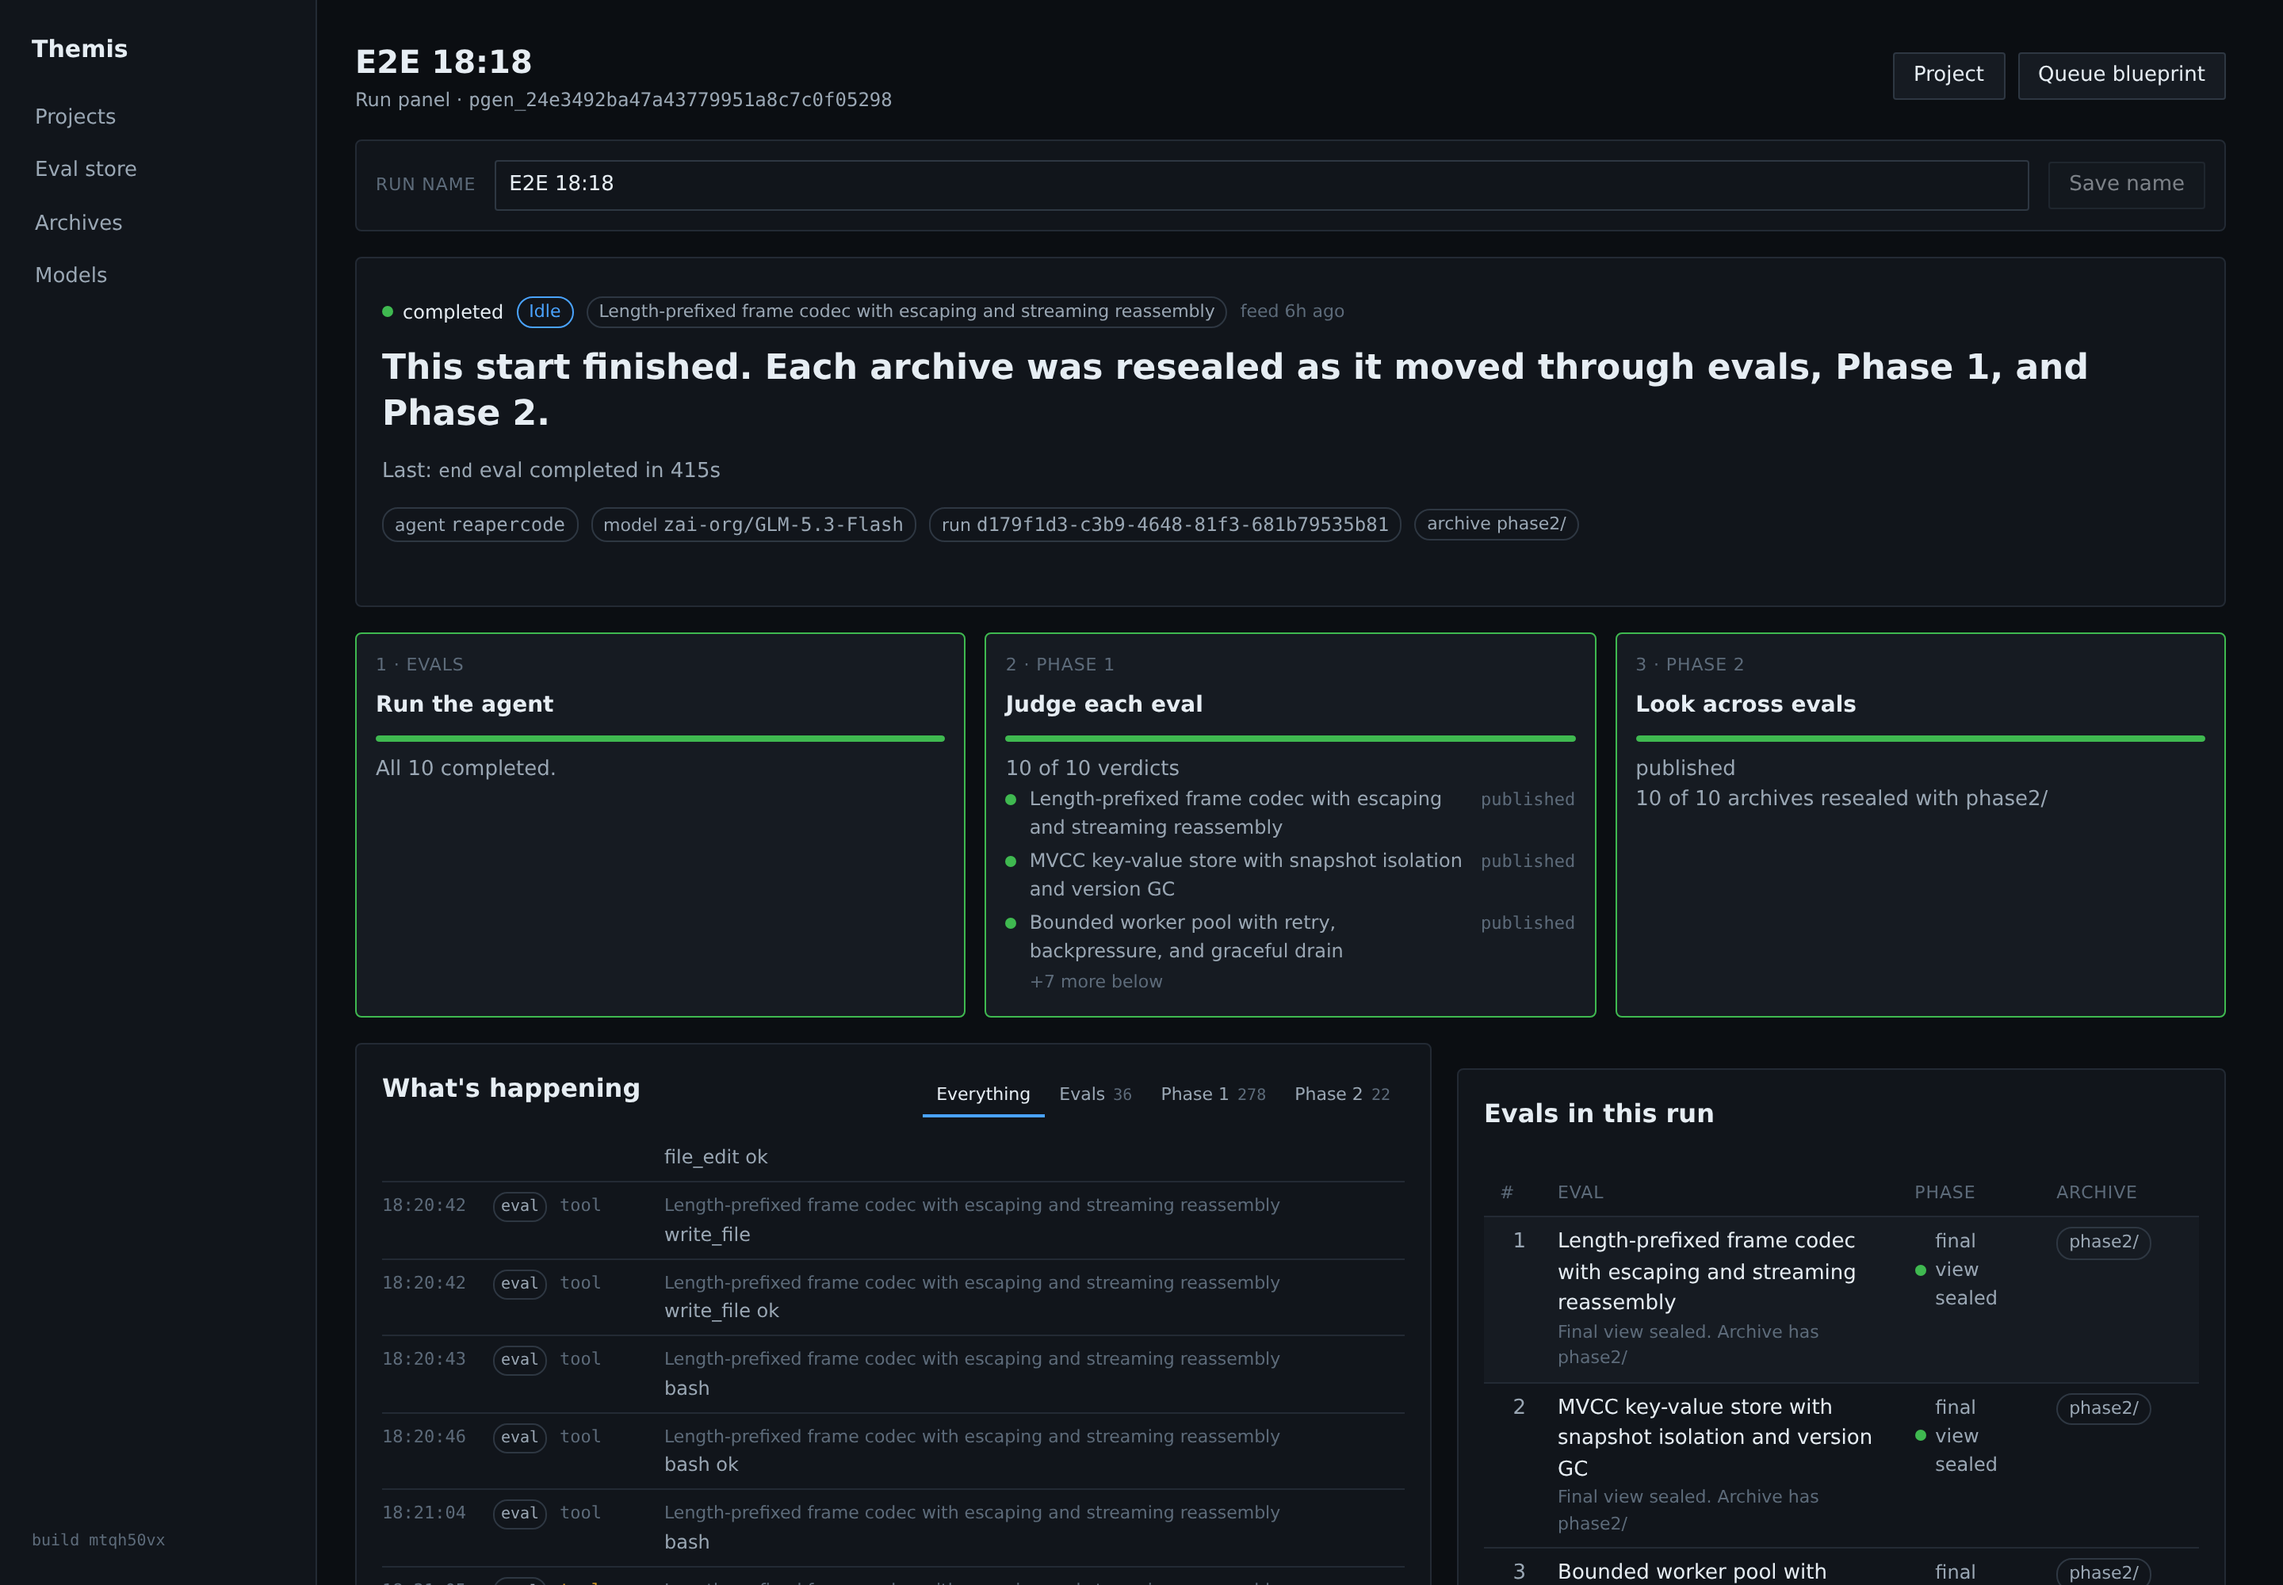
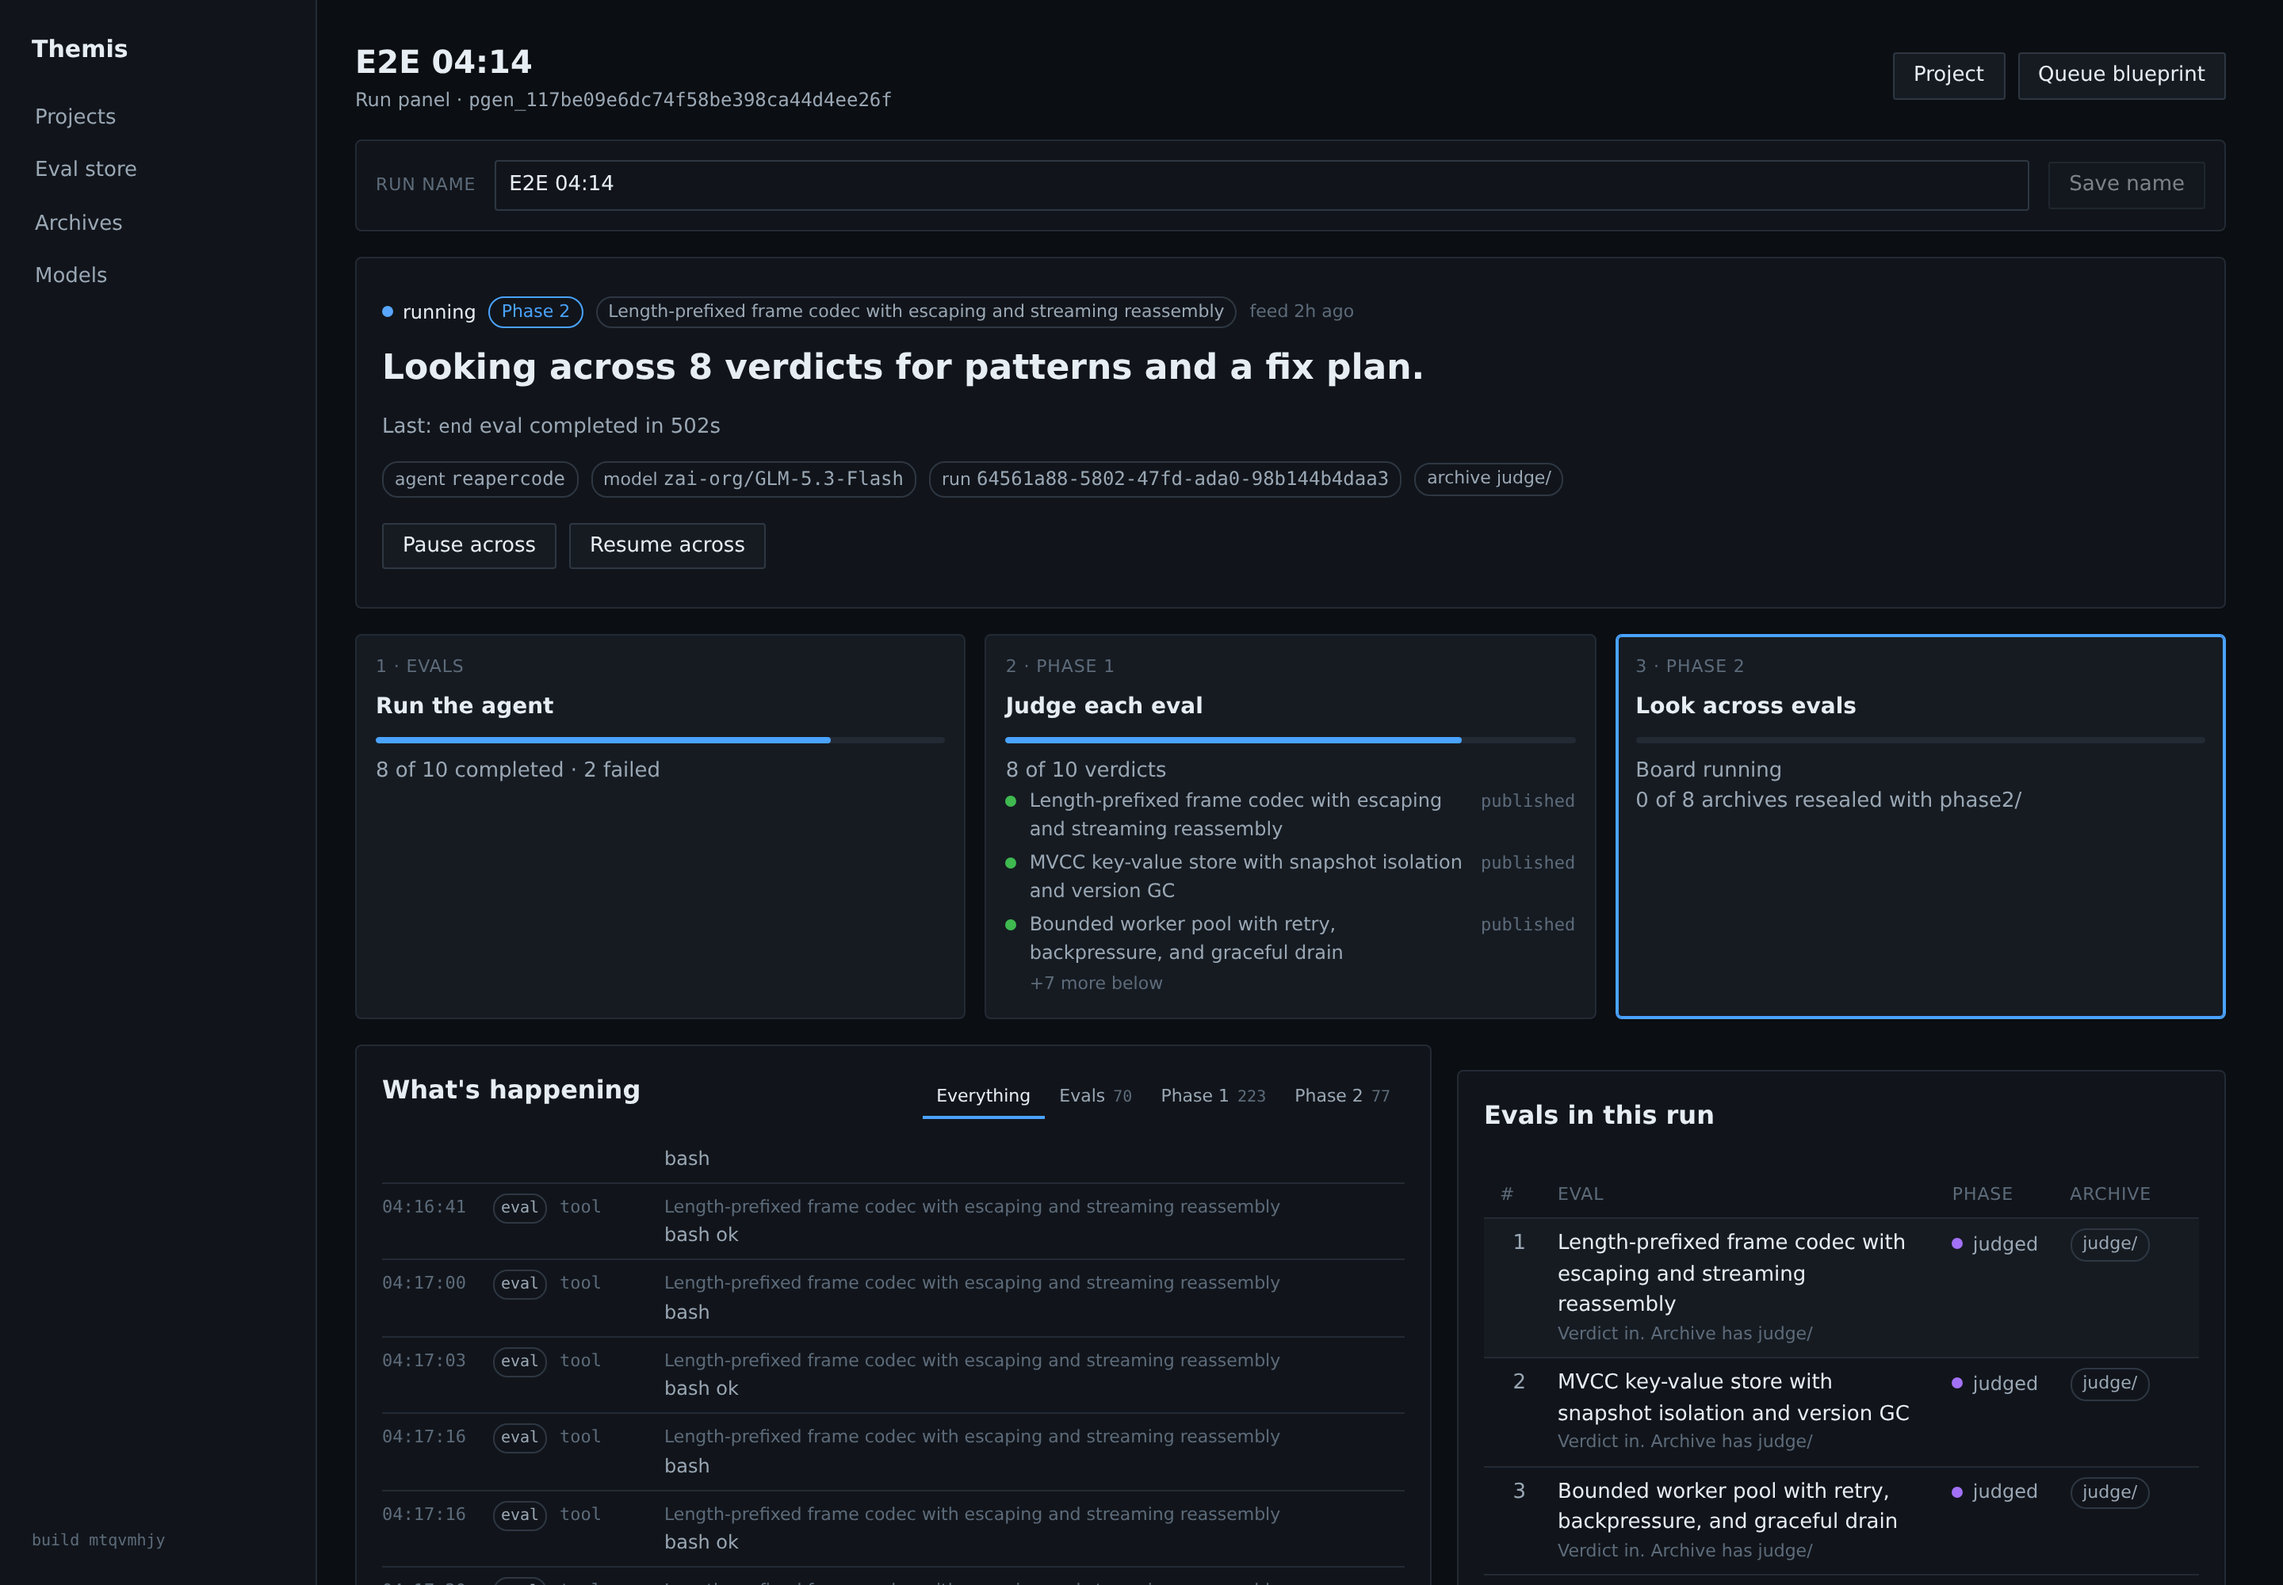
Stop the run panel claiming work while the across-evals board is down
The docs capture caught the header reading "running / Looking across 8
verdicts for patterns and a fix plan" directly above a card saying the
board process was gone. Both were reading the same generation state and
disagreeing about what it meant.

`stalled` (generation says phase2_running but no board process) now counts
as stopped alongside `paused` and `waiting_retry`, so the badge says
"stopped" rather than "running" and the headline says the session is saved
and the verdicts are still published. Adds `stopped` to the warn-tone
states so the new badge is not muted.

Screenshots recaptured against the fixed bundle.

diff --git a/web/src/pages/EvalLive.tsx b/web/src/pages/EvalLive.tsx
@@ -276,6 +276,11 @@ function nowCopy(opts: {
   if (opts.genState === 'waiting_retry') {
     return 'The across-evals pass stopped after its retries ran out, usually a provider error. Every verdict is still published. Resume to run it again.'
   }
+  // The board process being gone is not the same as the pass being under way.
+  // Claiming it is looking across verdicts contradicts the card right below it.
+  if (p?.phase2.stalled) {
+    return 'The across-evals board stopped mid-pass. Its session is saved and every verdict is still published. Resume to pick up where it stopped.'
+  }
   if (opts.acrossRunning || opts.genState === 'phase2_running') return `Looking across ${p?.phase1.published ?? opts.total ?? 0} verdicts for patterns and a fix plan.`
   if (opts.genState === 'finalizing') return 'Sealing the across-evals view onto each archive.'
   if (p?.stage === 'phase1') {
@@ -411,8 +416,11 @@ export default function EvalLive() {
   // A parked board keeps its campaign in `analyzing` so resume continues the same
   // session, so `analyzing` alone does not mean the board is working. The
   // generation sitting in `paused` or `waiting_retry` is what says it stopped.
+  // `stalled` means the generation still says phase2_running but the board
+  // process is gone, so that state is not evidence of work either.
   const acrossGenState = gen.data?.generation.state ?? pipeline.data?.generation?.state
-  const acrossStopped = acrossGenState === 'paused' || acrossGenState === 'waiting_retry'
+  const acrossStopped =
+    acrossGenState === 'paused' || acrossGenState === 'waiting_retry' || Boolean(prog?.phase2.stalled)
   const acrossRunning =
     Boolean(prog?.phase2.running) ||
     Boolean(campaign.data?.pi?.running) ||
@@ -643,9 +651,13 @@ export default function EvalLive() {
   // contradicts the chip whenever the generation row trails the items.
   const genState = gen.data?.generation.state ?? pipeline.data?.generation?.state ?? null
   const TERMINAL = ['completed', 'failed', 'cancelled', 'paused']
+  // A stopped board must not read as running. Its own card explains what
+  // happened; the badge only has to stop claiming work is under way.
   const statusWord = runPaused || (active === 'judge' && judgePaused)
     ? 'paused'
-    : genState && TERMINAL.includes(genState)
+    : active === 'across' && acrossStopped
+      ? 'stopped'
+      : genState && TERMINAL.includes(genState)
       ? genState
       : genState
         ? 'running'

diff --git a/web/src/components/ui.tsx b/web/src/components/ui.tsx
@@ -28,7 +28,7 @@ export function toneFor(state: string | undefined): { tone: 'ok' | 'warn' | 'dan
   if (['completed', 'published', 'done', 'pass', 'passed', 'success', 'final_view_published'].includes(s)) return { tone: 'ok', label }
   if (['running', 'analyzing', 'reviewing', 'finalizing', 'phase1_running', 'phase2_running', 'eval_running', 'sealing', 'leased'].includes(s)) return { tone: 'info', label }
   if (['failed', 'error', 'cancelled', 'dead_letter', 'invalid', 'blocked'].includes(s)) return { tone: 'danger', label }
-  if (['paused', 'waiting_retry', 'retry', 'partial', 'waiting'].includes(s) || s.includes('pending')) return { tone: 'warn', label }
+  if (['paused', 'stopped', 'waiting_retry', 'retry', 'partial', 'waiting'].includes(s) || s.includes('pending')) return { tone: 'warn', label }
   if (['phase1_published', 'phase2_attached', 'archive_sealed', 'judging'].includes(s)) return { tone: 'violet', label }
   return { tone: 'muted', label: state ? label : 'unknown' }
 }
